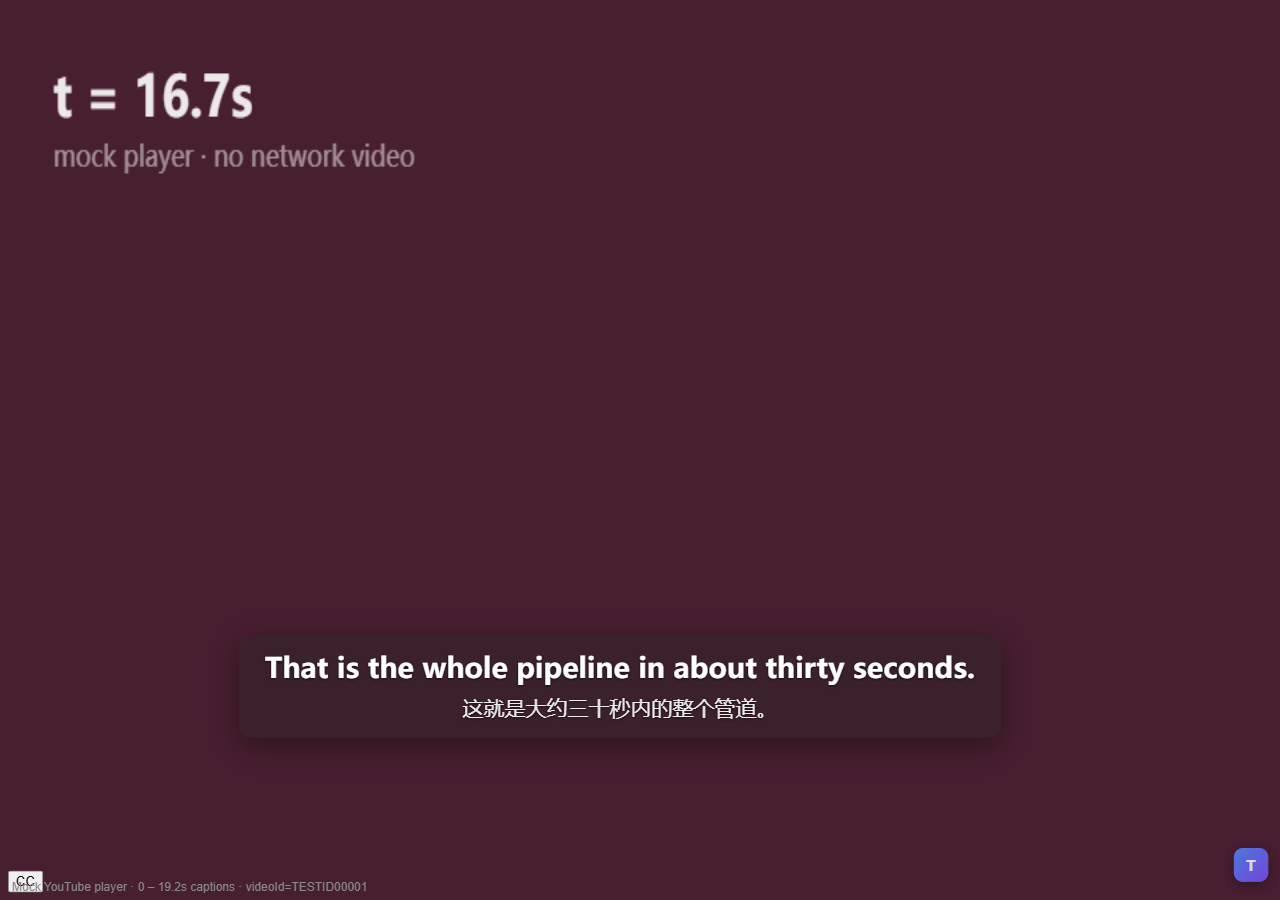
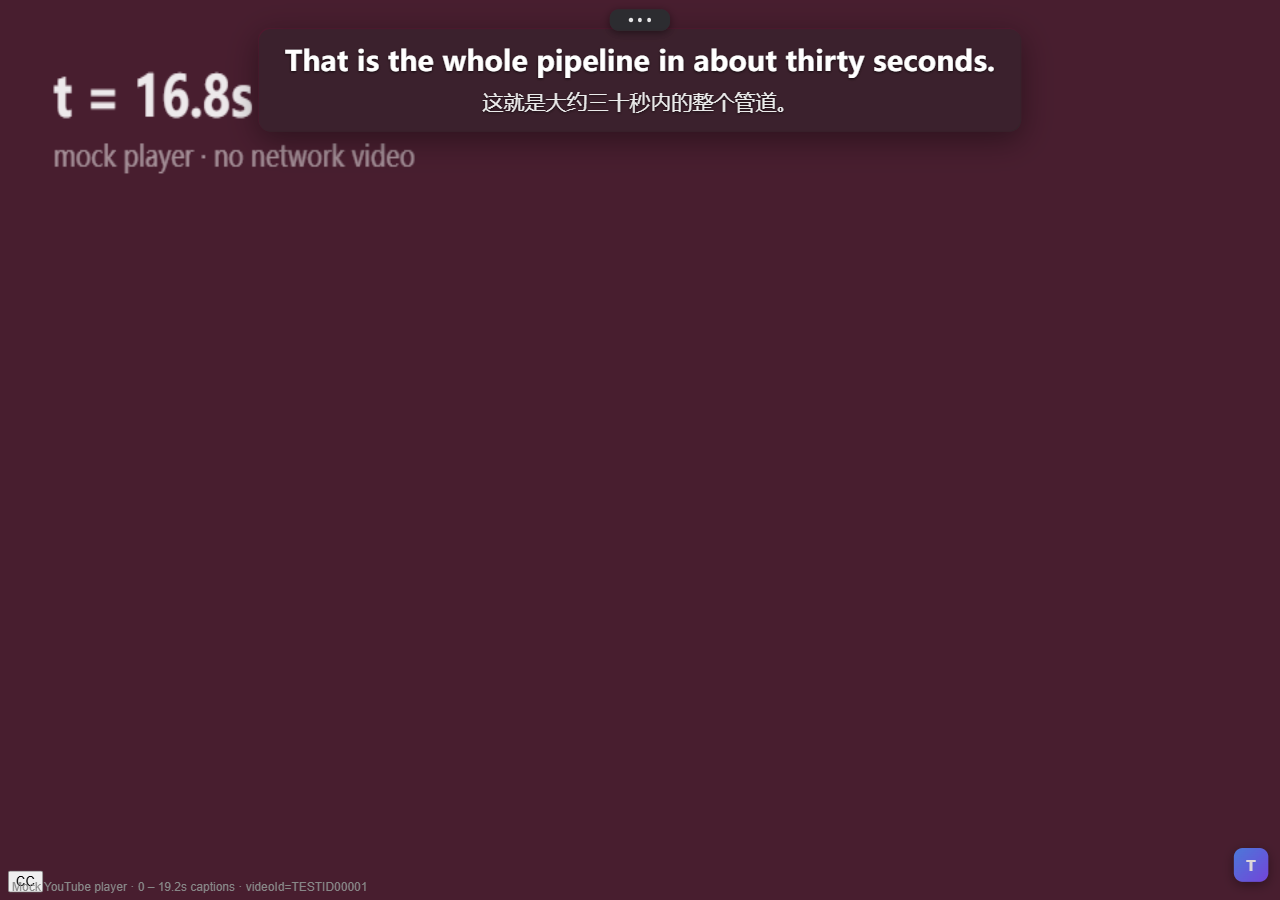
feat: 字幕拖动改为只能上下移动，横向固定居中
对齐 Trancy 的行为。原方案允许横向拖动，靠 clampCenterX() 把中心点
夹在视口内；但字幕框宽度随句子长短变化，用户每换一句都得重新摆位置，
"居中"这个预期也保不住。

改成横向锁死：
- 拖动只读 clientY，不读 clientX，横向完全不参与计算
- 不写 boxEl.style.left，水平位置永远由 CSS 的 left:50% + translateX(-50%) 决定
- 保存的位置从 {nx, ny} 简化为 {ny}，只记纵向比例；
  兼容旧数据（有 nx 就忽略，有 y 就当绝对像素用一次）
- clampCenterX() 整个删除 —— 横向不再由 JS 控制，没有可夹的东西
- 面板按钮文案「恢复居中」→「恢复默认位置」（横向本来就居中，说"居中"有歧义）

test-center.js 整体重写，从"验证拖动跟随鼠标"改成验证三件事：
  1. 横向拖不动：指针往右移 500px，框中心 640 → 640（drift 0）
  2. 纵向能拖：下移 60px 生效；向上拖到 y=20 时被夹在 y=29，不越界
  3. 换句不漂移：短句 762px / 长句 1232px，中心都是 640，drift 0

十套回归全绿。README 更新拖动说明，并在 bug 5 处标注该方案已被替换。

Changed region(s): [[0.1875, 0.7156, 0.75, 0.8089], [0.2188, 0.0, 0.7812, 0.1244], [0.1562, 0.0622, 0.1875, 0.1244]]

diff --git a/tools/test-center.js b/tools/test-center.js
@@ -1,9 +1,14 @@
 /**
- * 需求①回归测试：拖动后字幕框必须以「中心点」定位，句子长短变化时对称伸缩，
- * 不能出现「框变长就往右长、文字看起来在乱动」的情况。
+ * 拖动行为回归测试。
  *
- * 做法：拖到某个 x，记录框的 center；然后强制切换到长短差异很大的句子，
- * 断言 center 不变（允许 ±2px 误差）。
+ * 设计约束（用户要求，对齐 Trancy）：**只能上下移动，横向永远居中**。
+ * 理由：字幕框宽度随句子长短变化，允许横向拖动会让"居中"这件事失去保证，
+ * 每换一句都得重新摆；只放开纵向既够用又稳定。
+ *
+ * 所以这里断言三件事：
+ *   1. 横向拖不动：把指针横向移很远，框的中心仍在画面中心（±2px）
+ *   2. 纵向能拖：拖动后 top 变了，且与指针位置对应
+ *   3. 换句不漂移：长短两句的中心完全一致（横向锁定的直接结果）
  */
 const path = require('path');
 const { chromium } = require('playwright');
@@ -12,6 +17,8 @@ const F = require('./mock/fixtures');
 const CHROME = 'C:\\Program Files\\Google\\Chrome\\Application\\chrome.exe';
 const EXT = path.resolve(__dirname, '..', 'trace-subtitles');
 const ORIGIN = 'https://www.youtube.com';
+const VW = 1280;
+const VH = 900;
 
 (async () => {
   const ctx = await chromium.launchPersistentContext('.chrome-center', {
@@ -19,7 +26,7 @@ const ORIGIN = 'https://www.youtube.com';
     executablePath: CHROME,
     ignoreDefaultArgs: ['--enable-automation'],
     args: [`--disable-extensions-except=${EXT}`, `--load-extension=${EXT}`, '--no-first-run', '--mute-audio'],
-    viewport: { width: 1280, height: 900 },
+    viewport: { width: VW, height: VH },
   });
 
   const cors = { 'access-control-allow-origin': ORIGIN, 'access-control-allow-credentials': 'true' };
@@ -39,50 +46,46 @@ const ORIGIN = 'https://www.youtube.com';
   await page.waitForSelector('.trace-sub-box', { state: 'attached', timeout: 20000 });
   await page.waitForTimeout(2500);
 
-  // 1) 拖到画面中间偏右（不会被 clamp 夹到，用来验证"中心跟随鼠标"）
-  //    注意：手柄现在是「悬停字幕框才显形」（visibility/pointer-events 都切），
-  //    所以必须先把鼠标移到字幕框上让它出现，再去抓手柄。
-  const box = await page.locator('.trace-sub-box').boundingBox();
-  await page.mouse.move(box.x + box.width / 2, box.y + box.height / 2);
-  await page.waitForTimeout(300);
+  const box0 = await page.locator('.trace-sub-box').boundingBox();
+  const center0 = box0.x + box0.width / 2;
+
+  // ---- 1) 横向拖动：指针移到画面最右，框的中心应该纹丝不动 ----
+  // 手柄是「悬停字幕框才显形」，所以先悬停让手柄出来
+  await page.mouse.move(box0.x + box0.width / 2, box0.y + box0.height / 2);
+  await page.waitForTimeout(320);
   const handle = await page.locator('.trace-drag-handle').boundingBox();
-  const targetX = 760;
   await page.mouse.move(handle.x + handle.width / 2, handle.y + handle.height / 2);
-  await page.waitForTimeout(150);
+  await page.waitForTimeout(160);
   await page.mouse.down();
-  await page.mouse.move(targetX, handle.y + handle.height / 2, { steps: 12 });
+  // 往右拖 500px，同时略微下移（横向应完全无效，纵向应生效）
+  await page.mouse.move(handle.x + handle.width / 2 + 500, handle.y + handle.height / 2 + 60, { steps: 15 });
   await page.mouse.up();
   await page.waitForTimeout(400);
 
-  const afterDrag = await page.locator('.trace-sub-box').boundingBox();
-  const centerAfterDrag = afterDrag.x + afterDrag.width / 2;
-  // 拖动时的那句话可能很宽（最长句 1232px），此时 targetX=760 会被 clampCenterX
-  // 夹到 max = innerWidth - width/2 - 4。所以期望值要按当时的框宽算，不能硬编码 760。
-  const expectClamped = (() => {
-    const half = afterDrag.width / 2;
-    const min = half + 4;
-    const max = 1280 - half - 4;
-    if (max < min) return 1280 / 2;
-    return Math.round(Math.max(min, Math.min(targetX, max)));
-  })();
+  const afterH = await page.locator('.trace-sub-box').boundingBox();
+  const centerH = afterH.x + afterH.width / 2;
+  const hDrift = Math.abs(centerH - VW / 2);
+  const movedDown = afterH.y - box0.y;
 
-  // 2) 再拖到最左边，验证 clampCenterX 把框夹在视口内（不溢出）
-  //    注意：拖动后把手位置变了，必须重新取；同样要先悬停字幕框让手柄显形
-  await page.mouse.move(afterDrag.x + afterDrag.width / 2, afterDrag.y + afterDrag.height / 2);
-  await page.waitForTimeout(300);
+  // ---- 2) 纵向拖动：往上拖到接近画面顶部，框应跟着上去且不越界 ----
+  await page.mouse.move(afterH.x + afterH.width / 2, afterH.y + afterH.height / 2);
+  await page.waitForTimeout(320);
   const handle2 = await page.locator('.trace-drag-handle').boundingBox();
   await page.mouse.move(handle2.x + handle2.width / 2, handle2.y + handle2.height / 2);
-  await page.waitForTimeout(150);
+  await page.waitForTimeout(160);
   await page.mouse.down();
-  await page.mouse.move(10, handle2.y + handle2.height / 2, { steps: 12 });
+  // 拖到视口 y=20（远超上边界），验证纵向夹紧
+  await page.mouse.move(handle2.x + handle2.width / 2, 20, { steps: 15 });
   await page.mouse.up();
   await page.waitForTimeout(400);
-  const leftBox = await page.locator('.trace-sub-box').boundingBox();
-  const leftCenter = leftBox.x + leftBox.width / 2;
-  const expectedMin = leftBox.width / 2 + 4;
 
-  // 3) 自然播放采样：抓不同句子的宽度与中心，验证中心恒定
-  //    （MediaStream 不能 seek，只能等时间自然走到不同句子）
+  const topBox = await page.locator('.trace-sub-box').boundingBox();
+  const topCenter = topBox.x + topBox.width / 2;
+  const topDrift = Math.abs(topCenter - VW / 2);
+  const clampedTop = topBox.y >= 0;
+  const wentUp = topBox.y < afterH.y;
+
+  // ---- 3) 换句采样：不同长度的句子，中心必须完全一致 ----
   const samples = [];
   for (let i = 0; i < 40; i++) {
     const s = await page.evaluate(() => {
@@ -91,13 +94,18 @@ const ORIGIN = 'https://www.youtube.com';
       const box = document.querySelector('.trace-sub-box');
       if (!v || !orig || !box) return null;
       const r = box.getBoundingClientRect();
-      return { t: Math.round(v.currentTime * 10) / 10, text: (orig.textContent || '').trim(), width: Math.round(r.width), center: Math.round(r.x + r.width / 2) };
+      return {
+        t: Math.round(v.currentTime * 10) / 10,
+        text: (orig.textContent || '').trim(),
+        width: Math.round(r.width),
+        center: Math.round(r.x + r.width / 2),
+        top: Math.round(r.y),
+      };
     });
     if (s && s.text) samples.push(s);
     await page.waitForTimeout(300);
   }
 
-  // 按文本去重，取宽度最大和最小的两个不同句子
   const uniq = [];
   for (const s of samples) if (!uniq.find((u) => u.text === s.text)) uniq.push(s);
   uniq.sort((a, b) => a.width - b.width);
@@ -105,21 +113,27 @@ const ORIGIN = 'https://www.youtube.com';
   const longBox = uniq[uniq.length - 1];
   const shortCenter = shortBox ? shortBox.center : 0;
   const longCenter = longBox ? longBox.center : 0;
+  const sentenceDrift = Math.abs(shortCenter - longCenter);
 
   await page.screenshot({ path: 'shot-center.png' });
 
-  const drift = Math.abs(shortCenter - longCenter);
-  const followsCursor = Math.abs(centerAfterDrag - expectClamped) <= 6;
-  const clampedInside = leftBox.x >= 0 && leftCenter >= expectedMin - 2;
+  const dataFree = await page.getAttribute('#trace-sub-overlay', 'data-free');
   console.log(JSON.stringify({
-    targetX,
-    expectClamped,
-    centerAfterDrag: Math.round(centerAfterDrag),
-    followsCursor,
-    leftEdgeAfterClamp: Math.round(leftBox.x),
-    leftCenterAfterClamp: Math.round(leftCenter),
-    expectedMinCenter: Math.round(expectedMin),
-    clampedInside,
+    viewportCenter: VW / 2,
+    // 横向
+    centerBefore: Math.round(center0),
+    centerAfterHorizontalDrag: Math.round(centerH),
+    horizontalDrift: Math.round(hDrift * 10) / 10,
+    horizontalLocked: hDrift <= 2,
+    // 纵向
+    topBefore: Math.round(box0.y),
+    topAfterDragDown: Math.round(afterH.y),
+    movedDownPx: Math.round(movedDown),
+    verticalWorks: movedDown > 20,
+    topAfterDragUp: Math.round(topBox.y),
+    wentUp,
+    clampedTop,
+    // 换句
     distinctSentences: uniq.length,
     shortText: shortBox ? shortBox.text : '',
     longText: longBox ? longBox.text : '',
@@ -127,12 +141,24 @@ const ORIGIN = 'https://www.youtube.com';
     longWidth: longBox ? longBox.width : 0,
     shortCenter,
     longCenter,
-    driftPx: Math.round(drift * 10) / 10,
-    dataFree: await page.getAttribute('#trace-sub-overlay', 'data-free'),
+    sentenceDrift: Math.round(sentenceDrift * 10) / 10,
+    topDrift: Math.round(topDrift * 10) / 10,
+    dataFree,
   }, null, 2));
 
-  const ok = drift <= 2 && followsCursor && clampedInside && uniq.length >= 2;
-  console.log(`RESULT: ${ok ? 'PASS' : 'FAIL'}（中心不漂移 + 跟随鼠标 + 不溢出视口 + 至少两句不同长度）`);
+  const ok =
+    hDrift <= 2 &&
+    topDrift <= 2 &&
+    movedDown > 20 &&
+    wentUp &&
+    clampedTop &&
+    sentenceDrift <= 2 &&
+    uniq.length >= 2 &&
+    dataFree === '1';
+
+  console.log(
+    `RESULT: ${ok ? 'PASS' : 'FAIL'}（横向锁死居中 + 纵向可拖且不越界 + 换句不漂移）`
+  );
   await ctx.close();
 })().catch((e) => {
   console.error('FATAL', e);

diff --git a/trace-subtitles/content.js b/trace-subtitles/content.js
@@ -320,7 +320,7 @@
         </div>
       </div>
       <div class="tp-actions">
-        <button class="tp-btn" type="button" data-act="reset-pos">恢复居中</button>
+        <button class="tp-btn" type="button" data-act="reset-pos">恢复默认位置</button>
         <button class="tp-btn tp-primary" type="button" data-act="wordbook">生词本</button>
       </div>`;
     document.documentElement.appendChild(panelEl);
@@ -503,13 +503,15 @@
     }
   }
 
-  /** 按当前保存的位置重新摆一次字幕框（拖动、换句、视频框变化后调用） */
+  /**
+   * 按当前保存的位置重新摆一次字幕框（拖动、换句、视频框变化后调用）。
+   * 只处理纵向：水平方向永远由 CSS 居中（left:50% + translateX(-50%)），
+   * 这样句子长短变化时字幕不会左右跳，也不需要再夹紧横向边界。
+   */
   function reapplyFreePos() {
     if (!boxEl) return;
     const g = overlayGeom();
-    const cx = parseFloat(boxEl.style.left);
     const cy = parseFloat(boxEl.style.top);
-    boxEl.style.left = clampCenterX(Number.isFinite(cx) ? cx : g.width / 2) + 'px';
     const h = boxEl.offsetHeight || 0;
     const y = Number.isFinite(cy) ? cy : g.height * 0.8;
     boxEl.style.top = Math.round(Math.max(4, Math.min(y, Math.max(4, g.height - h - 4)))) + 'px';
@@ -517,9 +519,10 @@
 
   /**
    * 把保存的自由位置应用到字幕框。
-   * 位置按**覆盖层（=视频框）的归一化比例**保存（nx/ny，0~1），
-   * 这样换窗口大小、进全屏、切影院模式都不会跑位。
-   * 兼容早期版本存的绝对像素 {x, y}（那时覆盖层还等于视口）。
+   * 位置只记纵向比例 ny（0~1），水平方向固定居中 —— 这是刻意的：
+   * 字幕框宽度随句子长短变化，允许横向拖动会让「居中」这件事变得没有保证，
+   * 用户每次都得重新摆；只放开纵向既够用又稳定。
+   * 兼容旧数据：早期存过 {nx, ny} 或 {x, y}，这里只取纵向分量。
    */
   function applyFreePosition(pos) {
     if (!boxEl) return;
@@ -530,31 +533,20 @@
       return;
     }
     overlayEl.dataset.free = '1';
+    // 水平方向不写 left，交给 CSS 居中（含面板打开时的让位规则）
+    boxEl.style.left = '';
     const g = overlayGeom();
-    let cx, cy;
-    if (Number.isFinite(pos.nx)) {
-      cx = pos.nx * g.width;
-      cy = (Number.isFinite(pos.ny) ? pos.ny : 0.8) * g.height;
+    let cy;
+    if (Number.isFinite(pos.ny)) {
+      cy = pos.ny * g.height;
+    } else if (Number.isFinite(pos.y)) {
+      // 更早的版本存的是视口绝对像素
+      cy = pos.y;
     } else {
-      // 旧数据：视口绝对像素
-      cx = Number.isFinite(pos.x) ? pos.x : g.width / 2;
-      cy = Number.isFinite(pos.y) ? pos.y : g.height * 0.8;
+      cy = g.height * 0.8;
     }
-    boxEl.style.left = clampCenterX(cx) + 'px';
     const h = boxEl.offsetHeight || 0;
     boxEl.style.top = Math.round(Math.max(4, Math.min(cy, Math.max(4, g.height - h - 4)))) + 'px';
-  }
-
-  /** 把中心 x 限制在视频框内，保证整块字幕都看得见 */
-  function clampCenterX(cx) {
-    const g = overlayGeom();
-    const half = (boxEl?.offsetWidth || 0) / 2;
-    const min = half + 4;
-    // 面板打开时右边界要缩到面板左侧，否则字幕会被面板盖住一截
-    const rightEdge = g.width - panelReservePx();
-    const max = rightEdge - half - 4;
-    if (max < min) return rightEdge / 2;
-    return Math.round(Math.max(min, Math.min(cx, max)));
   }
 
   /** 页内面板当前是否可见 */
@@ -573,7 +565,10 @@
     if (state.settings?.freePos && boxEl) reapplyFreePos();
   }
 
-  /** 拖拽：按住顶部手柄移动字幕框，位置持久化（归一化到视频框，记录的是框的中心点） */
+  /**
+   * 拖拽：按住顶部手柄上下移动字幕框，位置持久化（归一化到视频框的纵向比例）。
+   * 水平方向锁死在中间 —— 句子长短变化时字幕以画面中心为轴伸缩，不会左右跑。
+   */
   function initDrag() {
     let drag = null;
 
@@ -582,8 +577,8 @@
       ev.preventDefault();
       ev.stopPropagation();
       const r = boxEl.getBoundingClientRect();
-      // 记录指针相对“框中心”的偏移，拖动过程中中心点跟随指针，且不随句子长短漂移
-      drag = { dx: ev.clientX - (r.left + r.width / 2), dy: ev.clientY - r.top };
+      // 只记纵向偏移：指针相对框顶的距离。横向不参与计算。
+      drag = { dy: ev.clientY - r.top };
       boxEl.classList.add('trace-dragging');
       handleEl.setPointerCapture?.(ev.pointerId);
     };
@@ -593,13 +588,11 @@
       ev.preventDefault();
       const g = overlayGeom();
       const h = boxEl.offsetHeight || 0;
-      // 指针坐标是视口的，覆盖层坐标系是视频框的 → 先减去视频框左上角
-      const cx = clampCenterX(ev.clientX - drag.dx - g.left);
+      // 指针坐标是视口的，覆盖层坐标系是视频框的 → 先减去视频框上沿
       const localY = ev.clientY - drag.dy - g.top;
       const y = Math.max(4, Math.min(localY, Math.max(4, g.height - h - 4)));
-      applyFreePosition({ nx: cx / g.width, ny: y / g.height });
+      applyFreePosition({ ny: y / g.height });
       // 立即回写成像素，避免拖动过程中反复按比例换算产生累积误差
-      boxEl.style.left = cx + 'px';
       boxEl.style.top = Math.round(y) + 'px';
     };
 
@@ -608,10 +601,8 @@
       drag = null;
       boxEl.classList.remove('trace-dragging');
       const g = overlayGeom();
-      const px = parseFloat(boxEl.style.left);
       const py = parseFloat(boxEl.style.top);
       savePosition({
-        nx: (Number.isFinite(px) ? px : g.width / 2) / g.width,
         ny: (Number.isFinite(py) ? py : 0) / g.height,
       });
     };
@@ -713,7 +704,7 @@
         realignActive();
       }
     }
-    // 句子变长/变短后框宽会变，自由模式下重新夹紧中心点，避免贴边溢出
+    // 句子变长/变短后框高可能变化，自由模式下重新夹一次纵向位置，避免下半截出画面
     if (state.settings?.freePos) reapplyFreePos();
   }
 

diff --git a/trace-subtitles/overlay.css b/trace-subtitles/overlay.css
@@ -59,6 +59,11 @@
 /* 自由拖拽定位：由 JS 写 left（= 框的水平中心）/top。
    关键：始终保留 translateX(-50%)，让字幕框以“中心点”对齐，
    这样句子长短变化时文字向两侧对称伸缩，不会整体左右乱跳。 */
+/* 自由拖动模式：只改纵向位置（top 由 JS 写），横向始终继承上面的
+   left:50% + translateX(-50%)，也就是永远居中。
+   这是刻意的设计：字幕框宽度随句子长短变化，如果允许横向拖动，
+   每换一句都要重新摆一次，而且"居中"这个预期也保不住。
+   只放开上下移动，既够用又稳定。 */
 #trace-sub-overlay[data-free="1"] .trace-sub-box {
   bottom: auto;
   transform: translateX(-50%);
